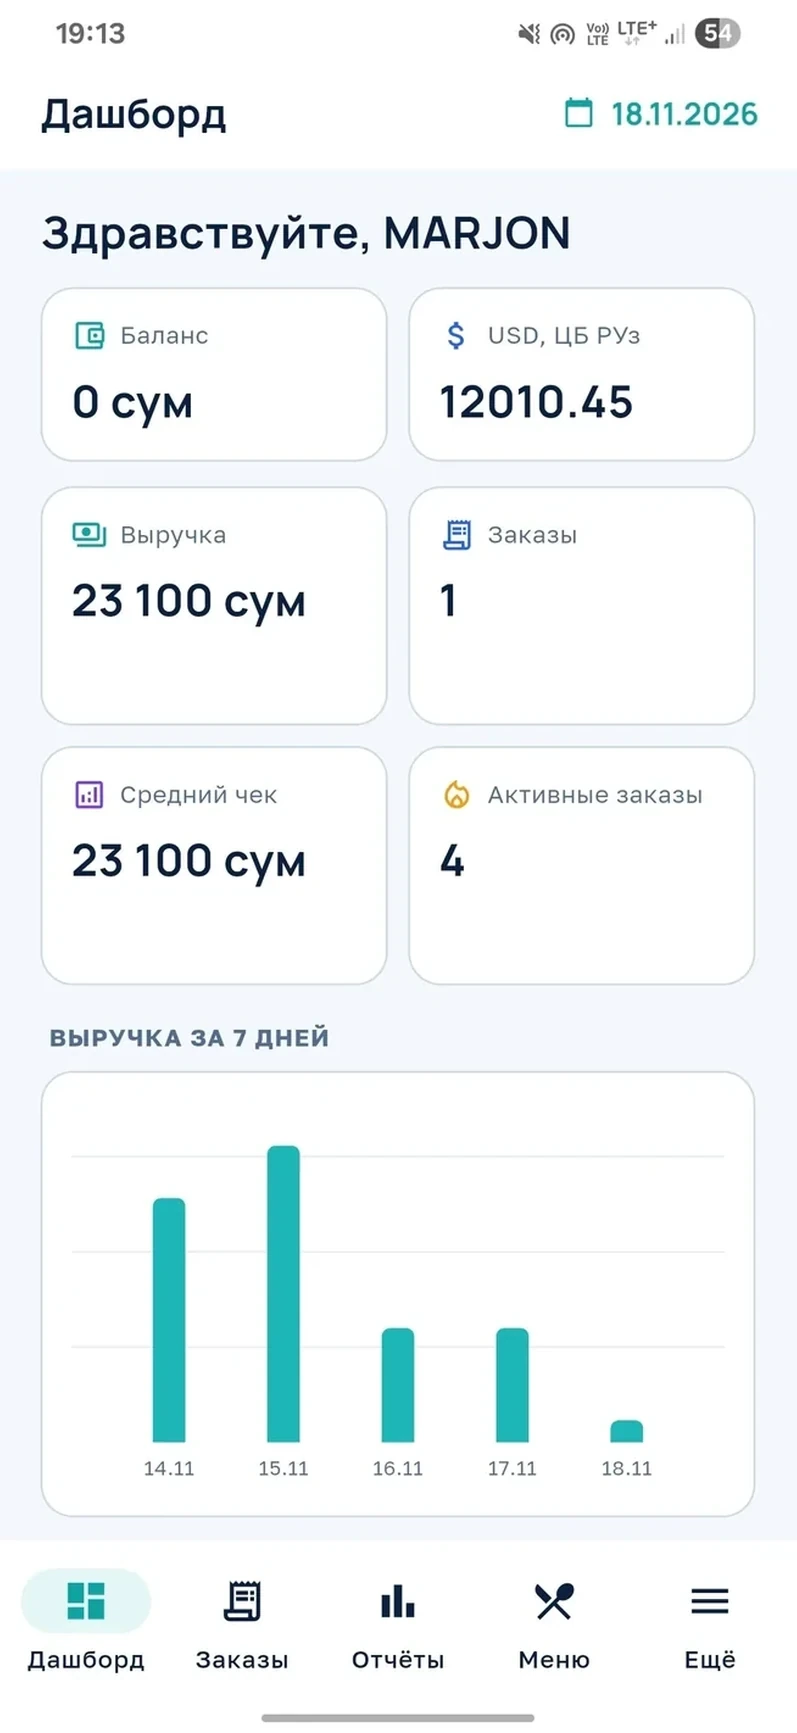
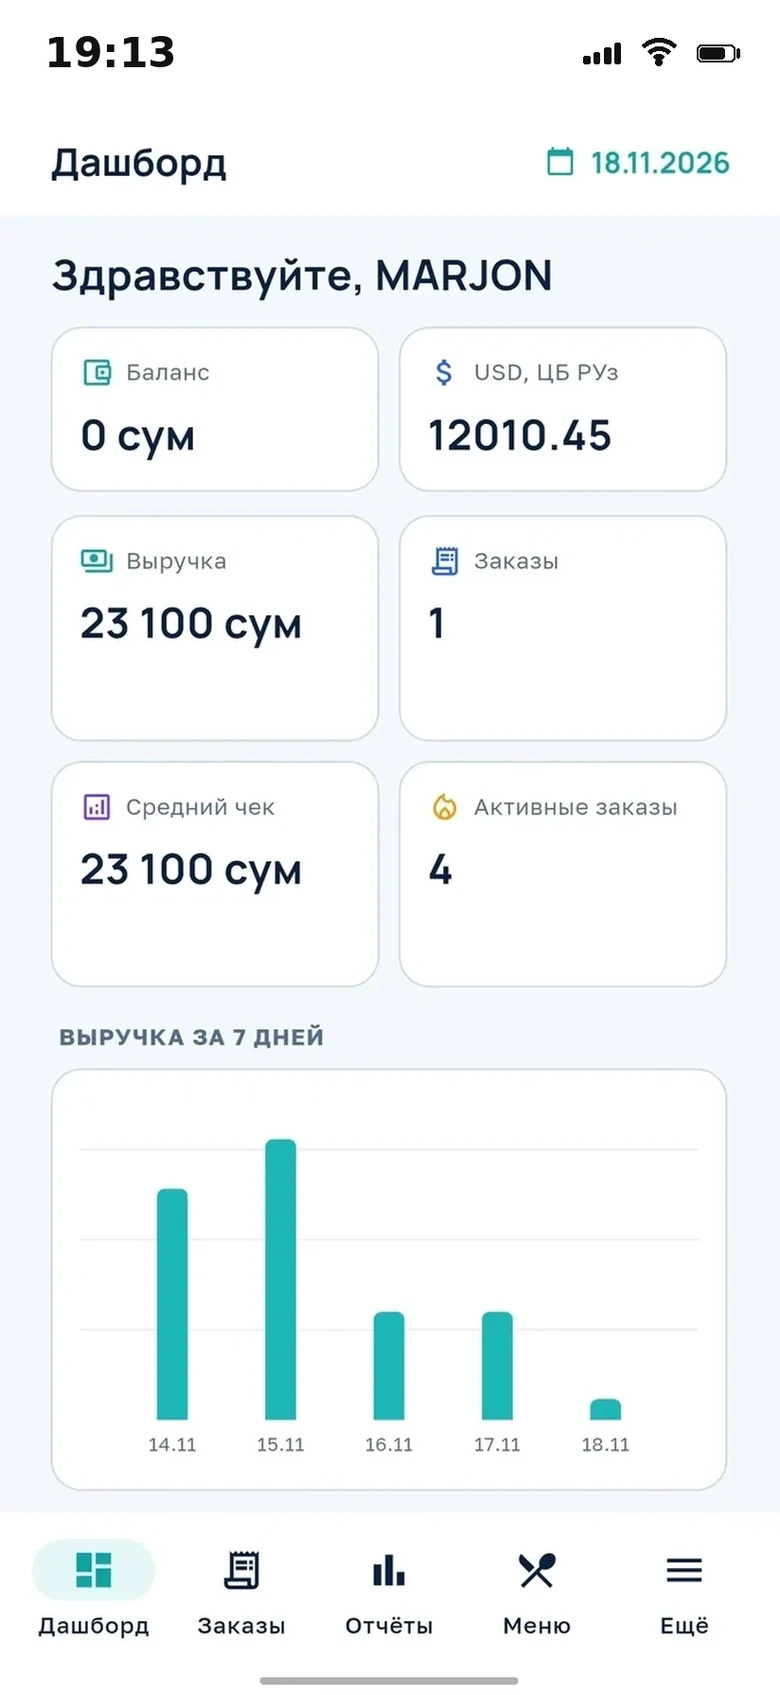
feat(landing-3d): follow-55 — модалка App Store: верхние элементы скриншотов заменены на оригинальные iOS (время, сотовая связь, Wi-Fi, батарея без текста), интерфейс опущен (статус-бар 112px), Dynamic Island отцентрован в полосе (v31)

diff --git a/landing-3d/src/style.css b/landing-3d/src/style.css
@@ -614,8 +614,7 @@ html.apps-open { overflow: hidden; }
 .iphone::after { content: ""; position: absolute; right: -2%; top: 29%; width: 2%; height: 7.6%; border-radius: 3px; background: #33373f; }
 .iphone-screen { position: relative; display: block; width: 100%; height: 100%; border-radius: 13.2% / 6.4%; overflow: hidden; background: #000; }
 .iphone-screen img { width: 100%; height: 100%; object-fit: cover; object-position: 50% 0%; display: block; user-select: none; -webkit-user-drag: none; }
-.iphone-island { position: absolute; top: 1.9%; left: 50%; transform: translateX(-50%); width: 30%; height: 4.7%; border-radius: 999px; background: #000; z-index: 2; pointer-events: none; box-shadow: inset 0 0 0 1px rgba(255, 255, 255, .05); }
-.apps-col-staff .iphone-island { top: .55%; width: 23%; height: 4.15%; }
+.iphone-island { position: absolute; top: 1.21%; left: 50%; transform: translateX(-50%); width: 31%; height: 4.19%; border-radius: 999px; background: #000; z-index: 2; pointer-events: none; box-shadow: inset 0 0 0 1px rgba(255, 255, 255, .05); }
 .iphone-island::after { content: ""; position: absolute; top: 50%; right: 11%; width: 8.4%; aspect-ratio: 1; transform: translateY(-50%); border-radius: 50%; background: radial-gradient(circle at 38% 38%, #2a3b52 0%, #0d1420 55%, #05070c 100%); }
 .iphone-cap { display: grid; gap: 2px; justify-items: center; text-align: center; max-width: 22ch; }
 .iphone-cap b { color: var(--paper); font-size: .92rem; font-weight: 600; letter-spacing: -.01em; }
